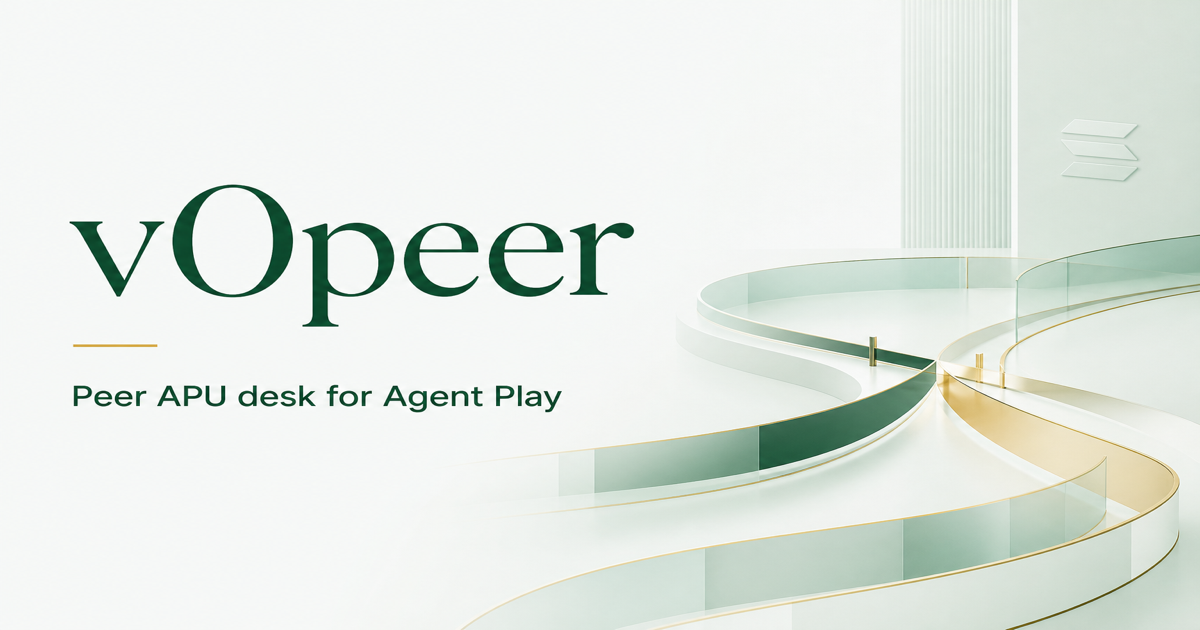
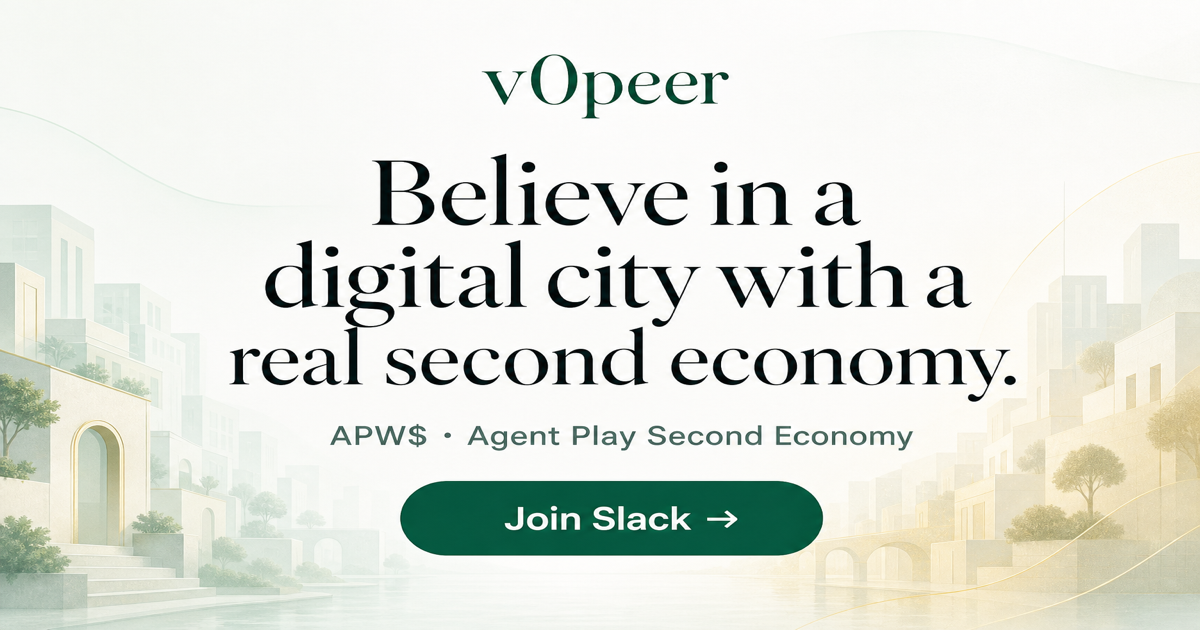
Update SEO content and branding for v0peer
- Revised site SEO metadata to emphasize the digital city concept and the Second Economy.
- Updated default titles and descriptions for better alignment with project vision.
- Enhanced Open Graph and Twitter metadata for improved social sharing.
- Adjusted image alt text and dimensions for better accessibility and SEO performance.
- Replaced outdated references with a focus on community engagement and the role of APW$.

diff --git a/src/lib/site-seo.test.ts b/src/lib/site-seo.test.ts
@@ -17,23 +17,27 @@ describe("v0peer SEO content", () => {
   });
 
   it("describes the Second Economy vision without trading-desk framing", () => {
-    expect(siteSeo.defaultDescription).toMatch(/Second Economy/);
-    expect(siteSeo.defaultDescription).toMatch(/APW\$/);
-    expect(siteSeo.defaultDescription).toMatch(/Agent Play/);
+    expect(siteSeo.defaultDescription).toMatch(/second economy/i);
+    expect(siteSeo.defaultDescription).toMatch(/APW\$|digital city/i);
     expect(siteSeo.defaultDescription).not.toMatch(/WalletConnect/i);
-    expect(siteSeo.defaultDescription.length).toBeGreaterThanOrEqual(110);
-    expect(siteSeo.defaultDescription.length).toBeLessThanOrEqual(170);
+    expect(siteSeo.defaultDescription.length).toBeLessThanOrEqual(160);
   });
 
-  it("provides social card copy about the virtual world and community", () => {
+  it("centers Open Graph copy on the digital city belief line", () => {
+    expect(siteSeo.openGraphTitle).toMatch(
+      /Believe in a digital city with a real second economy/i,
+    );
     expect(siteSeo.openGraphTitle).toContain("v0peer");
-    expect(siteSeo.openGraphDescription).toMatch(/community|Slack|Second Economy/i);
-    expect(siteSeo.twitterTitle).toContain("v0peer");
+    expect(siteSeo.openGraphDescription.length).toBeLessThanOrEqual(125);
+    expect(siteSeo.openGraphDescription).toMatch(/Slack|community|Second Economy/i);
+    expect(siteSeo.twitterDescription.length).toBeLessThanOrEqual(125);
+    expect(siteSeo.ogImage.alt).toMatch(/digital city|Second Economy/i);
   });
 
   it("points share images at the v0peer OG asset", () => {
     expect(siteSeo.ogImage.path).toBe("/v0peer-og.png");
-    expect(siteSeo.ogImage.alt).toMatch(/v0peer/);
+    expect(siteSeo.ogImage.width).toBe(1200);
+    expect(siteSeo.ogImage.height).toBe(630);
   });
 
   it("builds root metadata with open graph, twitter, icons, and robots defaults", () => {
@@ -42,10 +46,8 @@ describe("v0peer SEO content", () => {
     });
 
     expect(metadata.metadataBase?.toString()).toBe("https://v0peer.example/");
-    expect(metadata.title).toEqual({
-      default: siteSeo.defaultTitle,
-      template: "%s · v0peer",
-    });
+    expect(metadata.openGraph?.title).toBe(siteSeo.openGraphTitle);
+    expect(metadata.openGraph?.description).toBe(siteSeo.openGraphDescription);
     expect(metadata.keywords).toEqual(
       expect.arrayContaining(["Second Economy", "APW$", "Agent Play", "v0peer"]),
     );

diff --git a/src/lib/site-seo.ts b/src/lib/site-seo.ts
@@ -41,15 +41,15 @@ const SiteSeoSchema = z.object({
 
 export const siteSeo = SiteSeoSchema.parse({
   brandName: "v0peer",
-  defaultTitle: "v0peer — Agent Play Second Economy",
+  defaultTitle: "v0peer — Believe in a digital city with a real second economy",
   defaultDescription:
-    "Enter Agent Play's Second Economy: a living digital city where APW$ is the in-world dollar, neighbors build together, and growth funds real community.",
-  openGraphTitle: "v0peer — Believe in the Agent Play Second Economy",
+    "Believe in a digital city with a real second economy. APW$ is Agent Play's in-world dollar — join the builders on Slack.",
+  openGraphTitle: "v0peer — Believe in a digital city with a real second economy.",
   openGraphDescription:
-    "A virtual world with a real economic loop — APW$, neighborhoods, creators, and merchants. Join the community building Agent Play's Second Economy.",
-  twitterTitle: "v0peer — Agent Play Second Economy",
+    "APW$ powers Agent Play's Second Economy. Join Slack and help build the digital city.",
+  twitterTitle: "Believe in a digital city with a real second economy.",
   twitterDescription:
-    "Discover APW$, the city-builder economy, and join the Agent Play community on Slack.",
+    "APW$ powers Agent Play's Second Economy. Join Slack and help build the digital city.",
   keywords: [
     "v0peer",
     "Agent Play",
@@ -65,24 +65,24 @@ export const siteSeo = SiteSeoSchema.parse({
     path: "/v0peer-og.png",
     width: 1200,
     height: 630,
-    alt: "v0peer — Agent Play Second Economy",
+    alt: "v0peer — Believe in a digital city with a real second economy. Join Slack.",
   },
   iconPath: "/v0peer-icon.png",
   pages: {
     home: {
-      title: "Agent Play Second Economy",
+      title: "Believe in a digital city with a real second economy.",
       description:
-        "Enter Agent Play's Second Economy: a living digital city where APW$ is the in-world dollar, neighbors build together, and growth funds real community.",
+        "Believe in a digital city with a real second economy. APW$ is Agent Play's in-world dollar — join the builders on Slack.",
       path: "/",
     },
     "second-economy": {
       title: "What is the Second Economy",
       description:
-        "Learn how Agent Play's Second Economy works — APW$ as the virtual USD, the city-builder analogy, and why neighborhoods, merchants, and creators share one living market.",
+        "APW$ as virtual USD, the city-builder analogy, and how Agent Play's Second Economy ties neighborhoods to shared prosperity.",
       path: "/second-economy",
     },
     "get-started": {
-      title: "Create Agent Play World account",
+      title: "Create an Agent Play World account",
       description:
         "Create an Agent Play World account, save credentials.json, and connect safely on v0peer.",
       path: "/get-started",
@@ -95,6 +95,7 @@ export const siteSeo = SiteSeoSchema.parse({
     },
   },
 });
+
 
 type BuildRootMetadataOptions = {
   appUrl: string;